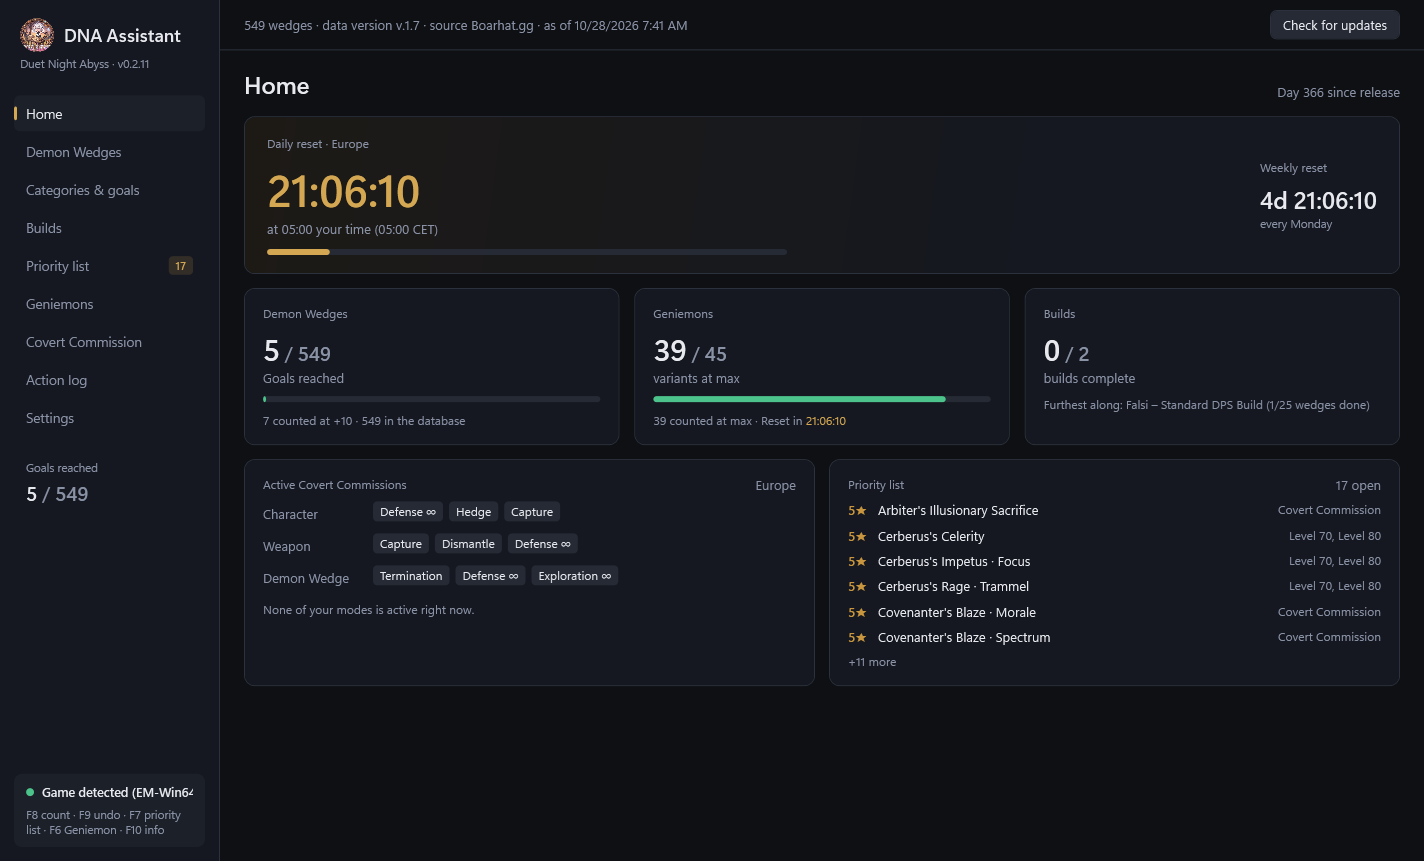
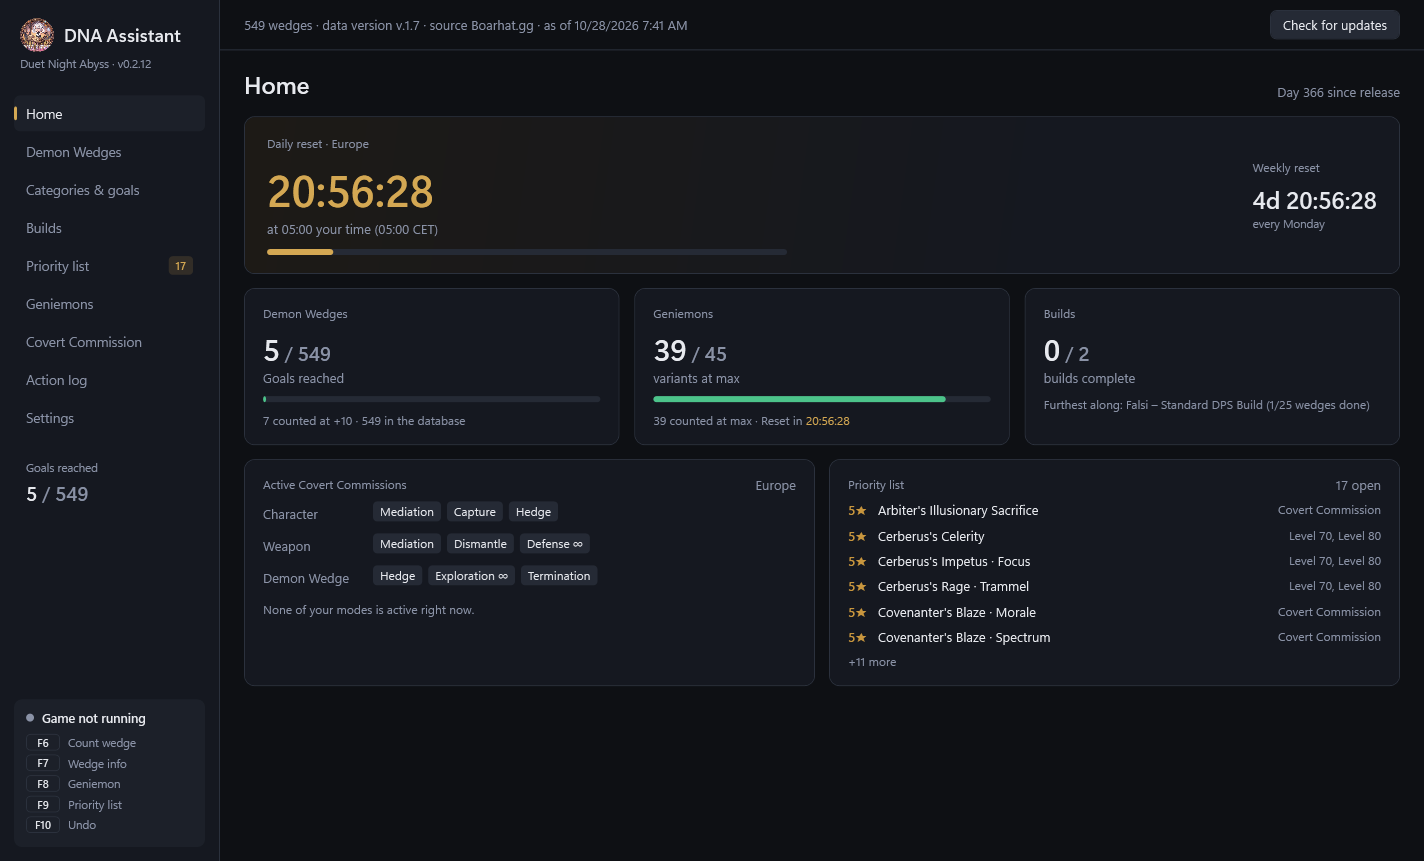
README: new default hotkeys and updated screenshots

diff --git a/README.md b/README.md
@@ -35,11 +35,11 @@
 
 | Key | What it does |
 |:---:|---|
-| **F8** | Counts the selected Demon Wedge when it's at max level (gold +10, others +5). Rarity is read from the card color. |
-| **F10** | Shows info for the selected Demon Wedge: how many you have, your goal and whether you still need it – counts nothing. |
-| **F6** | Geniemon view: counts the variant at max level (Lv. 60/60, three stars). Catch screen: tells you whether you still need it. |
-| **F7** | Shows or hides your priority list over the game. |
-| **F9** | Undoes the last hotkey action. |
+| **F6** | Counts the selected Demon Wedge when it's at max level (gold +10, others +5). Rarity is read from the card color. |
+| **F7** | Shows info for the selected Demon Wedge: how many you have, your goal and whether you still need it – counts nothing. |
+| **F8** | Geniemon view: counts the variant at max level (Lv. 60/60, three stars). Catch screen: tells you whether you still need it. |
+| **F9** | Shows or hides your priority list over the game. |
+| **F10** | Undoes the last hotkey action. |
 
 All keys can be changed in the settings.
 
@@ -67,7 +67,7 @@ Import builds from a boarhat link or code, from boarhat presets or from a **scre
 
 ### ⭐ Priority list
 
-The wedges you need next, including where to get them – press **F7** to show them over the game.
+The wedges you need next, including where to get them – press **F9** to show them over the game.
 
 <img src="images/priority.png" width="900" alt="Priority list">
 
